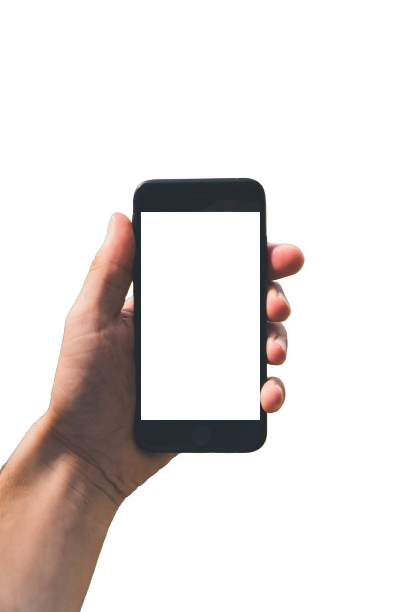
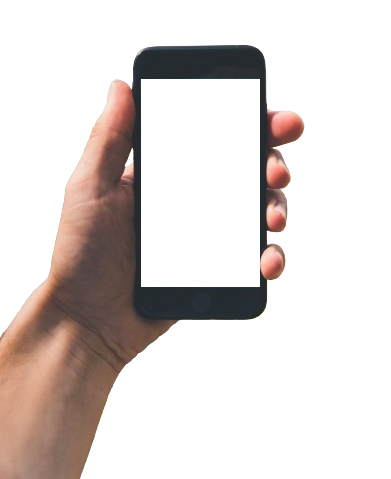
dump - main style setting

Changed region(s): [[0.0, 0.0877, 0.798, 0.9061], [0.1841, 0.9645, 0.2148, 1.0], [0.2148, 0.9353, 0.2455, 0.9645]]

diff --git a/weather.html b/weather.html
@@ -5,37 +5,71 @@
   <meta http-equiv="X-UA-Compatible" content="IE=edge">
   <meta name="viewport" content="width=device-width, initial-scale=1.0">
   <title>Weather App</title>
+  <link rel="stylesheet" href="https://cdnjs.cloudflare.com/ajax/libs/font-awesome/6.5.1/css/all.min.css" integrity="sha512-DTOQO9RWCH3ppGqcWaEA1BIZOC6xxalwEsw9c2QQeAIftl+Vegovlnee1c9QX4TctnWMn13TZye+giMm8e2LwA==" crossorigin="anonymous" referrerpolicy="no-referrer" />
   <link href="https://cdn.jsdelivr.net/npm/bootstrap@5.3.2/dist/css/bootstrap.min.css" rel="stylesheet" integrity="sha384-T3c6CoIi6uLrA9TneNEoa7RxnatzjcDSCmG1MXxSR1GAsXEV/Dwwykc2MPK8M2HN" crossorigin="anonymous">
   <link rel="stylesheet" href="style.css">
 </head>
-<body>
-  <section class="top-banner">
-    <div class="container">
-      <center>
-        <img src="https://d1psgljc389n8q.cloudfront.net/bootcamps/logos/VX6tpIUJa" alt="Bank logo" class="nav__logo"
-          id="logo" />
-          <h1 class="heading">
-            Weather App</h1>
-      </center>
-      <form>
-        <input type="text" placeholder="Search for a city" autofocus>
-        <button type="submit">SUBMIT</button>
-        <span class="msg"></span>
-      </form>
+<body class="d-flex justify-content-center align-items-end">
+  <div class="img-container text-center">
+    <img src="assets/main.png" alt="" class="" style="width: 1000px; height: 1200px;">
+    <div class="container text-center">
+      <section class="top-banner">
+        <div class="top-container">
+          <div class="icons d-flex justify-content-between align-items-center mx-2">
+            <div class="left time fw-bold">
+                <script>
+                  // Create a new Date object to get the local time
+                  const localTime = new Date();
+
+                  // Get the hour and minute information
+                  let hour = localTime.getHours();
+                  let minute = localTime.getMinutes();
+
+                  // Convert the hour to 12-hour format
+                  const am_pm = hour >= 12 ? 'PM' : 'AM';
+                  hour = hour % 12;
+                  hour = hour ? hour : 12;
+
+                  // Add leading zero to minute if it's less than 10
+                  minute = minute < 10 ? '0' + minute : minute;
+
+                  // Combine the results
+                  const time = hour + ':' + minute + ' ' + am_pm;
+
+                  // Print the result
+                  document.querySelector(".time").textContent = time;
+                </script>
+            </div>
+            <div class="right">
+              <i class="fa fa-signal" aria-hidden="true"></i>
+              <i class="fa fa-battery-three-quarters" aria-hidden="true"></i>
+            </div>
+          </div>
+          <center>
+              <h1 class="heading h3">
+                Weather App</h1>
+          </center>
+          <form class="text-center d-flex justify-content-center align-items-center pt-2">
+            <input type="text" placeholder="Search for a city" autofocus>
+            <button type="submit" class="border-1 px-2 btn btn-warning ms-1 px-1 py-0">Enter</button>
+            <span class="msg"></span>
+          </form>
+        </div>
+      </section>
+      <section class="ajax-section">
+        <div class="main-container">
+          <ul class="cities">
+          </ul>
+        </div>
+      </section>
+      <footer class="page-footer text-center">
+        <div class="bottom-container p">
+          <small>Coded by <span>❤</span> omrfrkcpr</a>
+          </small>
+        </div>
+      </footer>
     </div>
-  </section>
-  <section class="ajax-section">
-    <div class="container">
-      <ul class="cities">
-      </ul>
-    </div>
-  </section>
-  <footer class="page-footer">
-    <div class="container">
-      <small>Coded by <span>❤</span>omrfrkcpr</a>
-      </small>
-    </div>
-  </footer>
+  </div>
   <script src="app.js"></script>
   <script src="https://cdn.jsdelivr.net/npm/bootstrap@5.3.2/dist/js/bootstrap.bundle.min.js" integrity="sha384-C6RzsynM9kWDrMNeT87bh95OGNyZPhcTNXj1NW7RuBCsyN/o0jlpcV8Qyq46cDfL" crossorigin="anonymous"></script>
 </body>

diff --git a/style.css b/style.css
@@ -1,0 +1,27 @@
+* {
+  padding: 0;
+  margin: 0;
+  box-sizing: border-box;
+}
+
+.img-container {
+  position: relative;
+  position: absolute;
+  bottom: 0;
+}
+
+.container {
+  position: absolute;
+  width: 305px;
+  height: 515px;
+  top: 200px;
+  left: 360px;
+}
+.icons {
+  font-size: 0.8rem;
+  margin: 5px 5px 15px 5px;
+}
+
+ul {
+  overflow: auto;
+}
